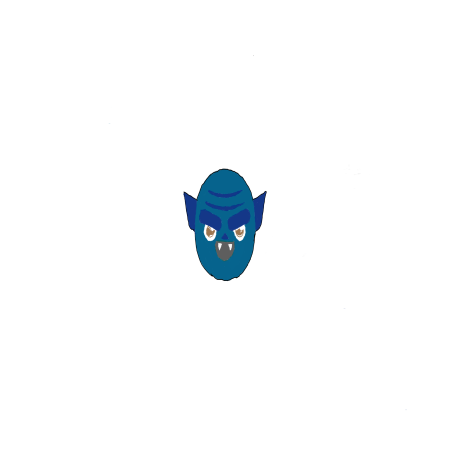
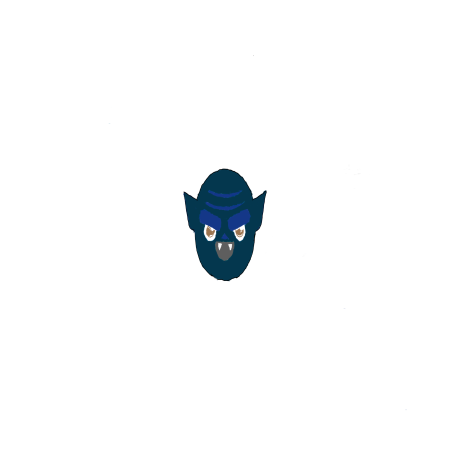
Implement orc and goblin walking animations.
Implement updated orc and goblin attack aninations

Changed region(s): [[0.4044, 0.3733, 0.5911, 0.6222]]

diff --git a/src/main/java/deco2800/thomas/managers/TextureManager.java b/src/main/java/deco2800/thomas/managers/TextureManager.java
@@ -461,23 +461,41 @@ public class TextureManager extends AbstractManager {
             // goblin attack sprites
             addAnimationFramesSprite("goblinDesertAttack", "resources/enemies/goblin_desert_sprite_sheet_ext.png",
                     6, 176, 326, true);
-            addAnimationFramesSprite("goblinSwampAttack", "resources/enemies/goblin_swamp_sprite_sheet.png",
-                    3, 350, 486, true);
-            addAnimationFramesSprite("goblinTundraAttack", "resources/enemies/goblin_tundra_sprite_sheet.png",
-                    3, 350, 486, true);
-            addAnimationFramesSprite("goblinVolcanoAttack", "resources/enemies/goblin_volcano_sprite_sheet.png",
-                    3, 350, 486, true);
+            addAnimationFramesSprite("goblinSwampAttack", "resources/enemies/goblin_swamp_sprite_sheet_ext.png",
+                    6, 176, 236, true);
+            addAnimationFramesSprite("goblinTundraAttack", "resources/enemies/goblin_tundra_sprite_sheet_ext.png",
+                    6, 176, 236, true);
+            addAnimationFramesSprite("goblinVolcanoAttack", "resources/enemies/goblin_volcano_sprite_sheet_ext.png",
+                    6, 176, 326, true);
+            // goblin walking sprites
+            //addAnimationFramesSprite("goblinDesertWalk", "resources/enemies/goblin_desert_walking_sprites.png",
+                    //9, 147, 188, true);
+            addAnimationFramesSprite("goblinSwampWalk", "resources/enemies/goblin_swamp_walking_sprites.png",
+                    9, 147, 188, false);
+            addAnimationFramesSprite("goblinTundraWalk", "resources/enemies/goblin_tundra_walking_sprites.png",
+                    9, 147, 188, false);
+            addAnimationFramesSprite("goblinVolcanoWalk", "resources/enemies/goblin_volcano_walking_sprites.png",
+                    9, 147, 188, false);
 
 			// orc attack sprites
-			addAnimationFramesSprite("orcDesertAttack", "resources/enemies/orc_desert_sprite_sheet.png",
-					3, 257, 324, false);
-			addAnimationFramesSprite("orcSwampAttack", "resources/enemies/orc_swamp_sprite_sheet.png",
-					3, 257, 324, false);
+			addAnimationFramesSprite("orcDesertAttack", "resources/enemies/orc_desert_sprite_sheet_ext.png",
+					10, 145, 172, true);
+			addAnimationFramesSprite("orcSwampAttack", "resources/enemies/orc_swamp_sprite_sheet_ext.png",
+					10, 145, 172, true);
+			addAnimationFramesSprite("orcTundraAttack", "resources/enemies/orc_tundra_sprite_sheet_ext.png",
+					10, 145, 172, true);
+			addAnimationFramesSprite("orcVolcanoAttack", "resources/enemies/orc_volcano_sprite_sheet_ext.png",
+					10, 145, 172, true);
 
-			addAnimationFramesSprite("orcTundraAttack", "resources/enemies/orc_tundra_sprite_sheet.png",
-					3, 257, 324, false);
-			addAnimationFramesSprite("orcVolcanoAttack", "resources/enemies/orc_volcano_sprite_sheet.png",
-					3, 257, 324, false);
+			//orc walking sprites
+            addAnimationFramesSprite("orcDesertWalk", "resources/enemies/orc_desert_walking_sprites.png",
+                    8, 162, 192, true);
+            addAnimationFramesSprite("orcSwampWalk", "resources/enemies/orc_swamp_walking_sprites.png",
+                    8, 162, 192, true);
+            addAnimationFramesSprite("orcTundraWalk", "resources/enemies/orc_tundra_walking_sprites.png",
+                    8, 162, 192, true);
+            addAnimationFramesSprite("orcVolcanoWalk", "resources/enemies/orc_volcano_walking_sprites.png",
+                    8, 162, 192, true);
 
             // dragon attack sprites
             addAnimationFramesSprite("dragonDesertAttack", "resources/enemies/dragon_desert_sprite_sheet.png",

diff --git a/src/main/java/deco2800/thomas/entities/enemies/monsters/Orc.java b/src/main/java/deco2800/thomas/entities/enemies/monsters/Orc.java
@@ -33,7 +33,7 @@ public class Orc extends Monster implements AggressiveEnemy, Animatable {
     private final Variation variation;
     private final Animation<TextureRegion> orcIdle;
     private final Animation<TextureRegion> orcAttacking;
-    //private final Animation<TextureRegion> orcWalking;
+    private final Animation<TextureRegion> orcWalking;
     private final Texture icon;
     private float stateTimer;
     private int duration = 0;
@@ -96,10 +96,10 @@ public class Orc extends Monster implements AggressiveEnemy, Animatable {
         facingDirection = MovementTask.Direction.RIGHT;
         this.orcIdle = new Animation<>(0.1f,
                 GameManager.getManagerFromInstance(TextureManager.class).getAnimationFrames(identifier + "Idle"));
-        this.orcAttacking = new Animation<> (0.1f,
+        this.orcAttacking = new Animation<> (0.02f,
                 GameManager.getManagerFromInstance(TextureManager.class).getAnimationFrames(identifier + "Attack"));
-        //this.orcWalking = new Animation<> (0.1f,
-                //GameManager.getManagerFromInstance(TextureManager.class).getAnimationFrames(identifier + "Walk"));
+        this.orcWalking = new Animation<> (0.1f,
+                GameManager.getManagerFromInstance(TextureManager.class).getAnimationFrames(identifier + "Walk"));
         this.icon = GameManager.getManagerFromInstance(TextureManager.class).getTexture(identifier + "Icon");
     }
 
@@ -145,19 +145,22 @@ public class Orc extends Monster implements AggressiveEnemy, Animatable {
         if (super.getTarget() != null && EnemyUtil.playerInRange(this, getTarget(), meleeRange)) {
             SquareVector origin = new SquareVector(this.getCol() - 1, this.getRow() - 1);
             currentState = State.ATTACK_MELEE;
-            duration = 12;
+            duration = 8;
             setCombatTask(new MeleeAttackTask(this, origin, 2, 2, getDamage()));
+            setMovementTask(null);
         }
     }
 
     @Override
     public void onTick(long i) {
-        if (--duration < 0) {
+        if (getMovementTask() != null) {
+            duration = 0;
+            currentState = State.WALK;
+        } else if (--duration < 0) {
             duration = 0;
             currentState = State.IDLE;
         }
-        currentState = State.IDLE;
-        currentState = State.WALK;
+
         // update target following path every 1 second (60 ticks)
         if (++tickFollowing > 60) {
             if (super.getTarget() != null) {
@@ -181,7 +184,6 @@ public class Orc extends Monster implements AggressiveEnemy, Animatable {
             }
             tickDetecting = 0;
         }
-
         // Update tasks and effects
         super.onTick(i);
     }
@@ -203,9 +205,12 @@ public class Orc extends Monster implements AggressiveEnemy, Animatable {
             case ATTACK_MELEE:
                 region = orcAttacking.getKeyFrame(stateTimer);
                 break;
-//            case WALK:
-//                region = orcWalking.getKeyFrame(stateTimer);
-//                break;
+            case WALK:
+                if (stateTimer >= orcWalking.getAnimationDuration()) {
+                    stateTimer = 0;
+                }
+                region = orcWalking.getKeyFrame(stateTimer);
+                break;
             case IDLE:
             default:
                 stateTimer = 0;

diff --git a/src/main/java/deco2800/thomas/entities/enemies/minions/Goblin.java b/src/main/java/deco2800/thomas/entities/enemies/minions/Goblin.java
@@ -5,6 +5,7 @@ import deco2800.thomas.entities.agent.AgentEntity;
 import deco2800.thomas.entities.agent.PlayerPeon;
 import deco2800.thomas.entities.enemies.AggressiveEnemy;
 import deco2800.thomas.entities.enemies.EnemyIndex.Variation;
+import deco2800.thomas.entities.enemies.monsters.Orc;
 import deco2800.thomas.managers.EnemyManager;
 import deco2800.thomas.managers.GameManager;
 import com.badlogic.gdx.graphics.g2d.Animation;
@@ -33,6 +34,7 @@ public class Goblin extends Minion implements AggressiveEnemy, Animatable {
     private final Animation<TextureRegion> goblinIdle;
     private float stateTimer;
     private final Animation<TextureRegion> goblinAttacking;
+    private final Animation<TextureRegion> goblinWalking;
     private MovementTask.Direction facingDirection;
 
     private int duration = 0;
@@ -83,10 +85,12 @@ public class Goblin extends Minion implements AggressiveEnemy, Animatable {
                 GameManager.getManagerFromInstance(TextureManager.class).getAnimationFrames(identifier + "Idle"));
         this.goblinAttacking = new Animation<> (0.1f,
                 GameManager.getManagerFromInstance(TextureManager.class).getAnimationFrames(identifier + "Attack"));
+        this.goblinWalking = new Animation<> (0.05f,
+                GameManager.getManagerFromInstance(TextureManager.class).getAnimationFrames(identifier + "Walk"));
         this.icon = GameManager.getManagerFromInstance(TextureManager.class).getTexture(identifier + "Icon");
         this.stateTimer = 0;
-        currentState = State.IDLE;
-        previousState = State.IDLE;
+        currentState = State.WALK;
+        previousState = State.WALK;
         facingDirection = MovementTask.Direction.RIGHT;
         detectTarget();
     }
@@ -123,17 +127,17 @@ public class Goblin extends Minion implements AggressiveEnemy, Animatable {
             currentState = State.ATTACK_MELEE;
             duration = 12;
             setCombatTask(new MeleeAttackTask(this, origin, 1, 1, (int) getDamage()));
+            setMovementTask(null);
         }
     }
 
     @Override
-    public void onTick(long i){
+    public void onTick(long i) {
         // update target following path every 0.5 second (30 ticks)
         if (--duration < 0) {
             duration = 0;
-            currentState = State.IDLE;
+            currentState = State.WALK;
         }
-
         if (++tickFollowing > 30) {
             if (getTarget() != null) {
                 if (getTarget().getCol() < this.getCol()) {
@@ -157,6 +161,12 @@ public class Goblin extends Minion implements AggressiveEnemy, Animatable {
         switch (currentState) {
             case ATTACK_MELEE:
                 region = goblinAttacking.getKeyFrame(stateTimer);
+                break;
+            case WALK:
+                if (stateTimer >= goblinWalking.getAnimationDuration()) {
+                    stateTimer = 0;
+                }
+                region = goblinWalking.getKeyFrame(stateTimer);
                 break;
             case IDLE:
             default:

diff --git a/src/main/java/deco2800/thomas/GameLauncher.java b/src/main/java/deco2800/thomas/GameLauncher.java
@@ -25,7 +25,7 @@ import com.badlogic.gdx.backends.lwjgl.LwjglApplicationConfiguration;
 		LwjglApplicationConfiguration config = new LwjglApplicationConfiguration();
 		config.width = 1920;
 		config.height = 1000;
-//		config.fullscreen = true;
+		config.fullscreen = true;
 		config.title = "DECO2800 2020: Polyhedron";
 		LwjglApplication app = new LwjglApplication(new ThomasGame(), config);
 	}
